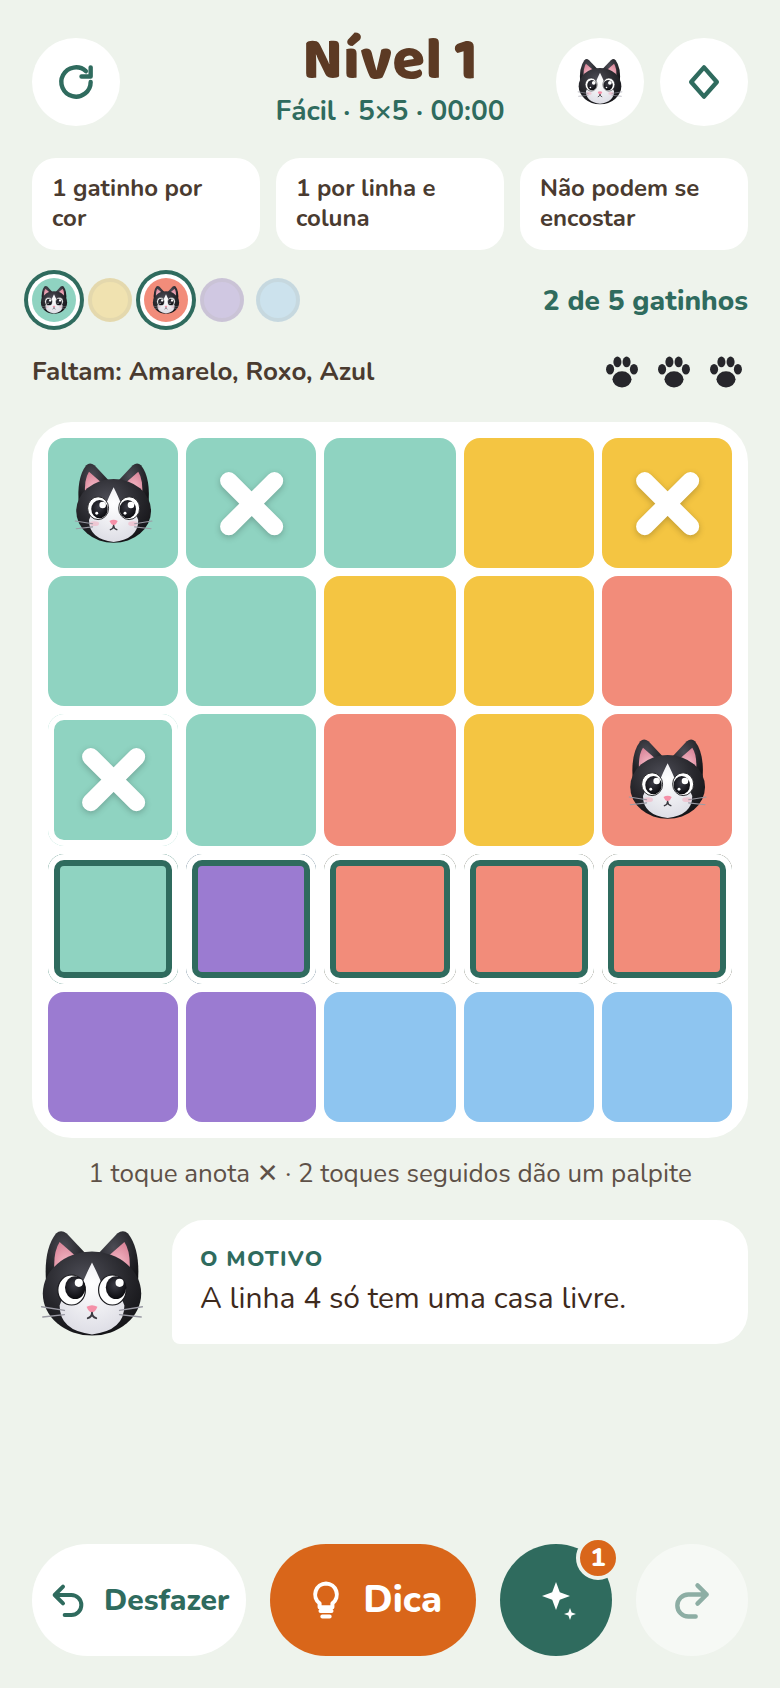
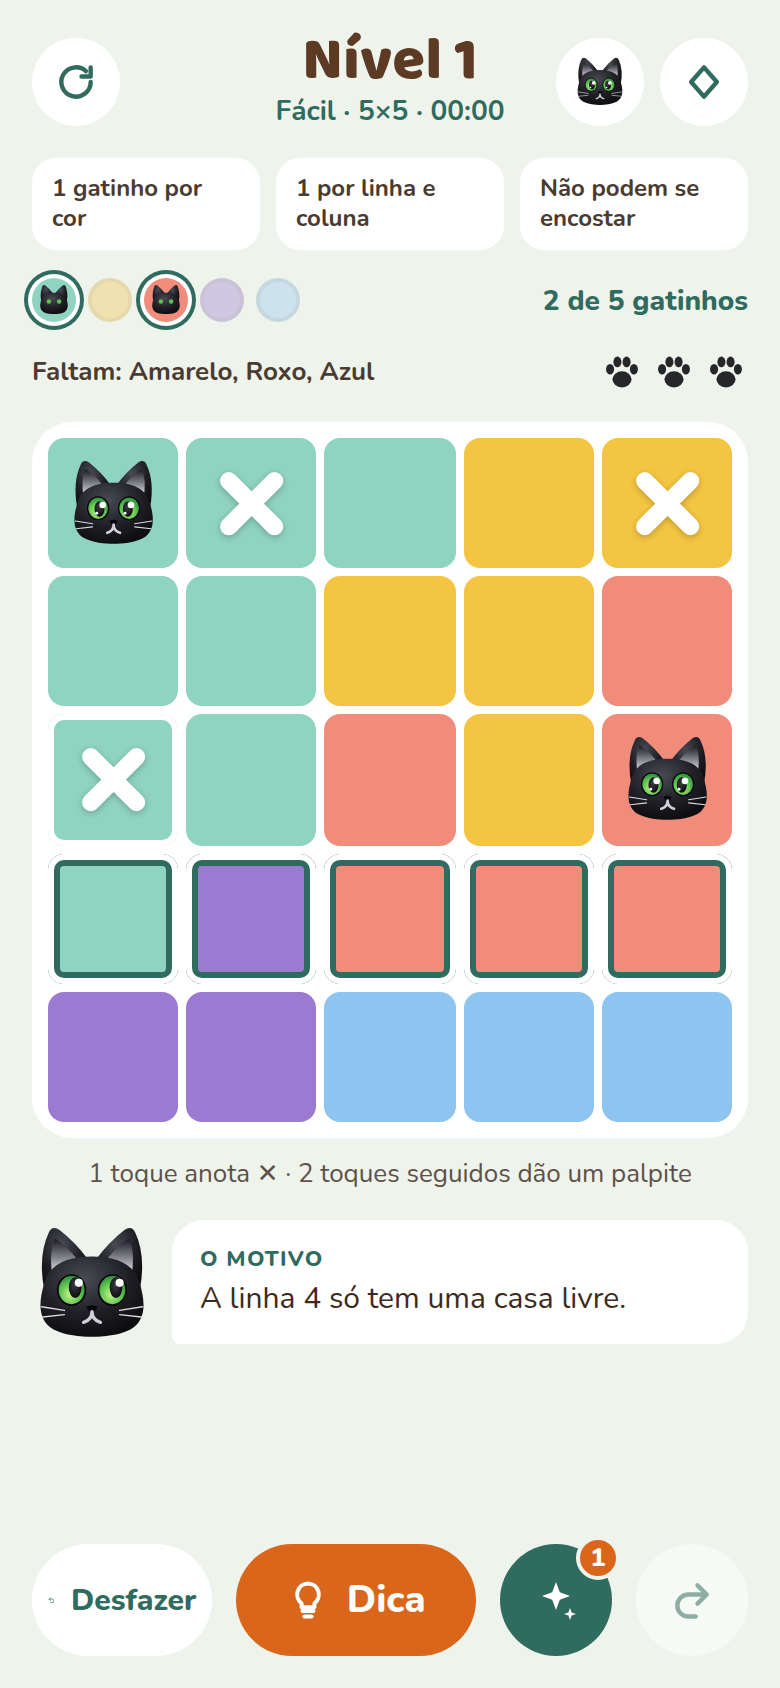
Mascote do canvas: gatinho preto de olhos verdes (ícones, rostos, bolinhas) e ajustes da barra

diff --git a/src/ui/cat.ts b/src/ui/cat.ts
@@ -1,12 +1,17 @@
-/** Gatinho frajola do design. Os gradientes (#k-*) ficam definidos uma vez no index.html. */
-const BODY = `
-<path d="M12 52 Q9 22 20 8 Q24 4 29 8 L47 27 Z" fill="url(#k-fur)"/>
-<path d="M19 43 Q17 24 23 15 L39 29 Z" fill="url(#k-ear)"/>
-<path d="M88 52 Q91 22 80 8 Q76 4 71 8 L53 27 Z" fill="url(#k-fur)"/>
-<path d="M81 43 Q83 24 77 15 L61 29 Z" fill="url(#k-ear)"/>
-<ellipse cx="50" cy="58" rx="41" ry="35" fill="url(#k-fur)"/>
-<path d="M50 32 Q44 44 41 52 Q27 55 23 68 Q23 89 50 92 Q77 89 77 68 Q73 55 59 52 Q56 44 50 32 Z" fill="url(#k-white)"/>`;
-const WHISKERS = `<path d="M27 72 L8 69 M27 75.5 L9 77.5 M73 72 L92 69 M73 75.5 L91 77.5" stroke="#9A9AA4" stroke-width="1.2" stroke-linecap="round"/>`;
+/**
+ * Gatinho preto de olhos verdes (mascote do canvas "Capivarando").
+ * Os gradientes (#k-*) ficam definidos uma vez no index.html.
+ */
+const EARS = `
+<path d="M10 54 Q5 26 14 7 Q17 1 23 5 Q36 15 47 30 Z" fill="url(#k-fur)"/>
+<path d="M17 43 Q14 24 19 12 Q30 19 39 31 Z" fill="url(#k-ear)"/>
+<path d="M90 54 Q95 26 86 7 Q83 1 77 5 Q64 15 53 30 Z" fill="url(#k-fur)"/>
+<path d="M83 43 Q86 24 81 12 Q70 19 61 31 Z" fill="url(#k-ear)"/>
+<path d="M50 27 C70 27 86 33 90 50 C94 64 96 80 82 88 C72 93 60 94 50 94 C40 94 28 93 18 88 C4 80 6 64 10 50 C14 33 30 27 50 27 Z" fill="url(#k-fur)"/>`;
+const WHISKERS = `<path d="M27 72 L8 69 M27 75.5 L9 77.5 M73 72 L92 69 M73 75.5 L91 77.5" stroke="#DADAE2" stroke-width="1.2" stroke-linecap="round"/>`;
+const NOSE = `<path d="M45.5 69 Q50 66.5 54.5 69 Q53 73 50 74 Q47 73 45.5 69 Z" fill="#050507"/>`;
+const SMILE = `<path d="M50 73 Q50 80 43 82 M50 73 Q50 80 57 82" stroke="#D0D0DA" stroke-width="2.8" fill="none" stroke-linecap="round"/>`;
+const EYE = (cx: number, cy: number) => `<ellipse cx="${cx}" cy="${cy}" rx="11.5" ry="12.5" fill="url(#k-eyeg)" stroke="#060608" stroke-width="1.4"/>`;
 
 const svg = (size: number, inner: string, label?: string) =>
   `<svg viewBox="0 0 100 100" width="${size}" height="${size}" ${label ? `role="img" aria-label="${label}"` : 'aria-hidden="true"'} style="display:block">${inner}</svg>`;
@@ -14,36 +19,44 @@ const svg = (size: number, inner: string, label?: string) =>
 export const catFace = (size: number) =>
   svg(
     size,
-    `${BODY}
-<ellipse cx="33" cy="55" rx="11.5" ry="12.5" fill="#FFF" stroke="#1A1A1E" stroke-width="1"/><ellipse cx="34.5" cy="56" rx="9" ry="10" fill="url(#k-iris)"/>
-<circle cx="38" cy="51.5" r="3.6" fill="#FFF"/><circle cx="31.5" cy="60.5" r="1.6" fill="#FFF"/>
-<ellipse cx="67" cy="55" rx="11.5" ry="12.5" fill="#FFF" stroke="#1A1A1E" stroke-width="1"/><ellipse cx="65.5" cy="56" rx="9" ry="10" fill="url(#k-iris)"/>
-<circle cx="69" cy="51.5" r="3.6" fill="#FFF"/><circle cx="62.5" cy="60.5" r="1.6" fill="#FFF"/>
-<ellipse cx="29" cy="72" rx="5" ry="2.6" fill="#F7A1B5" opacity=".45"/><ellipse cx="71" cy="72" rx="5" ry="2.6" fill="#F7A1B5" opacity=".45"/>
-<path d="M45.5 69 Q50 66.5 54.5 69 Q53 73 50 74 Q47 73 45.5 69 Z" fill="#F590A8"/>
-<path d="M50 74 Q50 77.5 46.5 78.5 M50 74 Q50 77.5 53.5 78.5" stroke="#3A3A40" stroke-width="1.6" fill="none" stroke-linecap="round"/>${WHISKERS}`,
+    `${EARS}
+${EYE(33, 55)}<ellipse cx="34.5" cy="56" rx="5.5" ry="8.5" fill="url(#k-iris)"/><circle cx="38" cy="51.5" r="3.6" fill="#FFF"/><circle cx="31.5" cy="60.5" r="1.6" fill="#FFF"/>
+${EYE(67, 55)}<ellipse cx="65.5" cy="56" rx="5.5" ry="8.5" fill="url(#k-iris)"/><circle cx="69" cy="51.5" r="3.6" fill="#FFF"/><circle cx="62.5" cy="60.5" r="1.6" fill="#FFF"/>
+${NOSE}${SMILE}${WHISKERS}`,
   );
+
+/** Carinha minúscula para a bolinha de cor já achada. */
+export const catDot = (size: number) =>
+  svg(size, `<path d="M10 54 Q5 26 14 7 Q17 1 23 5 Q36 15 47 30 Z" fill="url(#k-fur)"/><path d="M90 54 Q95 26 86 7 Q83 1 77 5 Q64 15 53 30 Z" fill="url(#k-fur)"/><path d="M50 27 C70 27 86 33 90 50 C94 64 96 80 82 88 C72 93 60 94 50 94 C40 94 28 93 18 88 C4 80 6 64 10 50 C14 33 30 27 50 27 Z" fill="url(#k-fur)"/><circle cx="34" cy="55" r="7" fill="#5CC24E"/><circle cx="66" cy="55" r="7" fill="#5CC24E"/>`);
 
 export const catHint = (size: number) =>
   svg(
     size,
-    `${BODY}
-<ellipse cx="33" cy="55" rx="11.5" ry="12.5" fill="#FFF" stroke="#1A1A1E" stroke-width="1"/><ellipse cx="36" cy="53" rx="8.5" ry="9.5" fill="url(#k-iris)"/><circle cx="39" cy="49" r="3.4" fill="#FFF"/>
-<ellipse cx="67" cy="55" rx="11.5" ry="12.5" fill="#FFF" stroke="#1A1A1E" stroke-width="1"/><ellipse cx="70" cy="53" rx="8.5" ry="9.5" fill="url(#k-iris)"/><circle cx="73" cy="49" r="3.4" fill="#FFF"/>
-<path d="M45.5 69 Q50 66.5 54.5 69 Q53 73 50 74 Q47 73 45.5 69 Z" fill="#F590A8"/>
-<path d="M50 74 Q50 77.5 46.5 78.5 M50 74 Q50 77.5 53.5 78.5" stroke="#3A3A40" stroke-width="1.6" fill="none" stroke-linecap="round"/>${WHISKERS}`,
+    `${EARS}
+${EYE(33, 55)}<ellipse cx="36" cy="53" rx="5.3" ry="8.6" fill="url(#k-iris)"/><circle cx="39" cy="49" r="3.4" fill="#FFF"/>
+${EYE(67, 55)}<ellipse cx="70" cy="53" rx="5.3" ry="8.6" fill="url(#k-iris)"/><circle cx="73" cy="49" r="3.4" fill="#FFF"/>
+${NOSE}${SMILE}${WHISKERS}`,
     'Gatinho dando uma dica',
+  );
+
+export const catSad = (size: number) =>
+  svg(
+    size,
+    `${EARS}
+${EYE(33, 55)}<ellipse cx="33" cy="58" rx="4.3" ry="6.3" fill="#17171B"/><circle cx="36" cy="54" r="3" fill="#FFF"/>
+${EYE(67, 55)}<ellipse cx="67" cy="58" rx="4.3" ry="6.3" fill="#17171B"/><circle cx="70" cy="54" r="3" fill="#FFF"/>
+${NOSE}<path d="M40 83 Q50 74 60 83" stroke="#D0D0DA" stroke-width="2.8" fill="none" stroke-linecap="round"/>${WHISKERS}`,
+    'Gatinho preocupado',
   );
 
 export const catCheer = (size: number) =>
   svg(
     size,
-    `${BODY}
-<path d="M24 57 Q33 47 42 57" stroke="#1A1A1E" stroke-width="3.4" fill="none" stroke-linecap="round"/>
-<path d="M58 57 Q67 47 76 57" stroke="#1A1A1E" stroke-width="3.4" fill="none" stroke-linecap="round"/>
-<ellipse cx="29" cy="70" rx="6" ry="3.2" fill="#F7A1B5" opacity=".7"/><ellipse cx="71" cy="70" rx="6" ry="3.2" fill="#F7A1B5" opacity=".7"/>
-<path d="M45.5 67 Q50 64.5 54.5 67 Q53 71 50 72 Q47 71 45.5 67 Z" fill="#F590A8"/>
-<path d="M42 75 Q50 86 58 75 Z" fill="#B23A55" stroke="#3A3A40" stroke-width="1.6" stroke-linejoin="round"/>
+    `${EARS}
+<path d="M24 57 Q33 47 42 57" stroke="#8EE06A" stroke-width="3.4" fill="none" stroke-linecap="round"/>
+<path d="M58 57 Q67 47 76 57" stroke="#8EE06A" stroke-width="3.4" fill="none" stroke-linecap="round"/>
+<path d="M45.5 67 Q50 64.5 54.5 67 Q53 71 50 72 Q47 71 45.5 67 Z" fill="#050507"/>
+<path d="M42 75 Q50 86 58 75 Z" fill="#B23A55" stroke="#A4A4B0" stroke-width="1.6" stroke-linejoin="round"/>
 <ellipse cx="50" cy="80.5" rx="4" ry="2" fill="#FF9AB0"/>${WHISKERS}`,
     'Gatinho comemorando',
   );

diff --git a/src/ui/main.ts b/src/ui/main.ts
@@ -7,7 +7,7 @@ import { DIFFICULTY_LABEL, specForLevel } from '../core/progression';
 import { loadProgress, MAX_NAME, recordCompletion, saveProgress, setName, type Progress } from '../core/progress';
 import { load, save, type KV } from '../core/storage';
 import type { Puzzle } from '../core/types';
-import { catCheer, catFace, catHint } from './cat';
+import { catCheer, catDot, catFace, catHint, catSad } from './cat';
 
 const $ = <T extends HTMLElement>(id: string) => document.getElementById(id) as T;
 const kv: KV = {
@@ -77,7 +77,7 @@ function render(): void {
 
   const found = new Set<number>();
   g.cells.forEach((m, i) => m.state === 'cat' && found.add(g.puzzle.regions[Math.floor(i / n)][i % n]));
-  $('progress').innerHTML = Array.from({ length: n }, (_, k) => `<span class="dot ${found.has(k) ? 'on' : ''}" style="background:${COLOR_HEX[k]}" title="${COLOR_NAMES[k]}: ${found.has(k) ? 'achado' : 'falta'}">${found.has(k) ? catFace(16) : ''}</span>`).join('');
+  $('progress').innerHTML = Array.from({ length: n }, (_, k) => `<span class="dot ${found.has(k) ? 'on' : ''}" style="background:${COLOR_HEX[k]}" title="${COLOR_NAMES[k]}: ${found.has(k) ? 'achado' : 'falta'}">${found.has(k) ? catDot(16) : ''}</span>`).join('');
   $('found').textContent = `${found.size} de ${n} gatinhos`;
   const missing = Array.from({ length: n }, (_, k) => k).filter((k) => !found.has(k)).map((k) => COLOR_NAMES[k]);
   $('missing').textContent = missing.length ? `Faltam: ${missing.join(', ')}` : 'Todos achados!';
@@ -135,7 +135,7 @@ function render(): void {
     ov.innerHTML = `${CONFETTI}<div class="card" role="dialog" aria-modal="true" aria-label="Nível concluído"><button id="closeWin" class="close" aria-label="Fechar">${CLOSE_SVG}</button><span class="bob">${catCheer(124)}</span><h2>Você achou todos os gatinhos!</h2><p>${progress.name ? `Parabéns, ${progress.name.replace(/[&<>]/g, '')}! ` : ''}Nível ${level} concluído em ${fmt(elapsedMs(g))}</p><p>Dicas: ${g.hintsUsed} · Poderes: ${g.powersUsed} · Tentativas restantes: ${attemptsLeft(g)}</p><button id="next" class="next">Próximo nível</button></div>`;
   } else if (isLost(g)) {
     ov.hidden = false;
-    ov.innerHTML = `<div class="card" role="dialog" aria-modal="true" aria-label="Sem tentativas"><span class="bob">${catFace(96)}</span><h2>Sem tentativas</h2><p>Você usou as ${MAX_ATTEMPTS} tentativas deste nível.</p><button id="again" class="cta">Recomeçar nível</button><button id="keep" class="ghost">Continuar sem limite</button></div>`;
+    ov.innerHTML = `<div class="card" role="dialog" aria-modal="true" aria-label="Sem tentativas"><span class="bob">${catSad(96)}</span><h2>Sem tentativas</h2><p>Você usou as ${MAX_ATTEMPTS} tentativas deste nível.</p><button id="again" class="cta">Recomeçar nível</button><button id="keep" class="ghost">Continuar sem limite</button></div>`;
   } else ov.hidden = true;
 }
 

diff --git a/index.html b/index.html
@@ -17,9 +17,9 @@
   <body>
     <svg width="0" height="0" style="position:absolute" aria-hidden="true">
       <defs>
-        <radialGradient id="k-fur" cx="42%" cy="30%" r="75%"><stop offset="0%" stop-color="#4C4C55"/><stop offset="60%" stop-color="#26262B"/><stop offset="100%" stop-color="#121215"/></radialGradient>
-        <radialGradient id="k-white" cx="50%" cy="30%" r="80%"><stop offset="0%" stop-color="#FFFFFF"/><stop offset="100%" stop-color="#D9D9E2"/></radialGradient>
-        <radialGradient id="k-ear" cx="50%" cy="70%" r="70%"><stop offset="0%" stop-color="#F8BFCB"/><stop offset="100%" stop-color="#D98599"/></radialGradient>
+        <radialGradient id="k-fur" cx="42%" cy="28%" r="78%"><stop offset="0%" stop-color="#4A4A54"/><stop offset="55%" stop-color="#1F1F25"/><stop offset="100%" stop-color="#0B0B0E"/></radialGradient>
+        <radialGradient id="k-eyeg" cx="45%" cy="65%" r="70%"><stop offset="0%" stop-color="#C6F58A"/><stop offset="55%" stop-color="#5CC24E"/><stop offset="100%" stop-color="#1D7436"/></radialGradient>
+        <linearGradient id="k-ear" x1="0.5" y1="1" x2="0.5" y2="0"><stop offset="0%" stop-color="#F4F4F7"/><stop offset="45%" stop-color="#8A8A94"/><stop offset="100%" stop-color="#16161A"/></linearGradient>
         <radialGradient id="k-iris" cx="45%" cy="40%" r="60%"><stop offset="0%" stop-color="#3C3C46"/><stop offset="100%" stop-color="#0B0B0F"/></radialGradient>
       </defs>
     </svg>

diff --git a/src/ui/style.css b/src/ui/style.css
@@ -1,5 +1,5 @@
 :root {
-  --lagoa: #eef3ec; --mata: #2f6b5e; --tangerina: #d9661a; --frajola: #26262b; --barro: #5c3a24; --texto: #3e2a1c; --suave: #4a3b30;
+  --lagoa: #eef3ec; --mata: #2f6b5e; --tangerina: #d9661a; --frajola: #26262b; --pretinho: #1f1f25; --olho: #5cc24e; --barro: #5c3a24; --texto: #3e2a1c; --suave: #4a3b30;
   --erro: #d93a3f;
 }
 * { box-sizing: border-box; -webkit-tap-highlight-color: transparent; }
@@ -127,3 +127,7 @@ button:disabled { opacity: .5; cursor: default; }
 @keyframes pawBreak { 0% { transform: scale(1); } 20% { transform: scale(1.5) rotate(-12deg); } 40% { transform: scale(1.5) rotate(12deg); } 60% { transform: scale(1.2) rotate(-6deg); } 100% { transform: scale(1); } }
 #sheet h2 { padding-right: 52px; }
 .badge.used { background: #8a948c; }
+.round.big { flex: none; }
+.pill { white-space: nowrap; min-width: 0; }
+.pill.orange[data-mode='next'] { font-size: 16px; }
+.pill svg { flex: none; }
